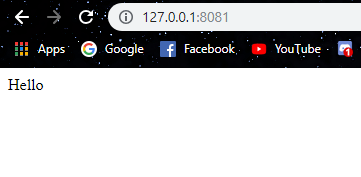
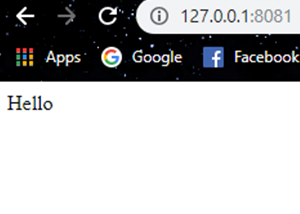
Fix image size and Add image to Markdown

diff --git a/README.md b/README.md
@@ -1,6 +1,5 @@
 # JavascriptLearning
-CGM276 Gameimplement Let's start with javascript.
-
+CGM276 Gameimplement >>Let's start with javascript.<<
 ## Goal
 Create Web Server that can response with following tag.<br>
 `/` response &emsp **Hello.** <br>
@@ -8,10 +7,12 @@ Create Web Server that can response with following tag.<br>
 
 ## Dependencies
 This project use Node.js with web application framwork.<br>
+<br>
 **Installation**<br>
+<hr>
 init node package <br/>
 `npm init`<br>
-import express 
+import express<br> 
 `npm install express`
 
 ## Code
@@ -46,7 +47,7 @@ Import used function<br>
 ```
 
 Create request and response the request function<br>
-When request `/`
+- When request `/`
 ```javascript
 
     app.get("/", function (request, response) {
@@ -54,7 +55,7 @@ When request `/`
     })
     
 ```
-When request `/users`
+- When request `/users`
 ```javascript
 
     app.get("/users", function (request, response) {
@@ -65,7 +66,7 @@ When request `/users`
     })
 
 ```
-Show Log when request and response
+- Show Log when request and response
 ```javascript
 
     var server = app.listen(8081, function () {
@@ -77,3 +78,6 @@ Show Log when request and response
 ```
 
 ## Result
+Test in Loop back IP at port 8081
+![/ request](https://github.com/Sahapat/JavascriptLearning/blob/master/DescriptionImages/ServerResponse_1.PNG)
+![/users request](https://github.com/Sahapat/JavascriptLearning/blob/master/DescriptionImages/ServerResponse_2.PNG)
